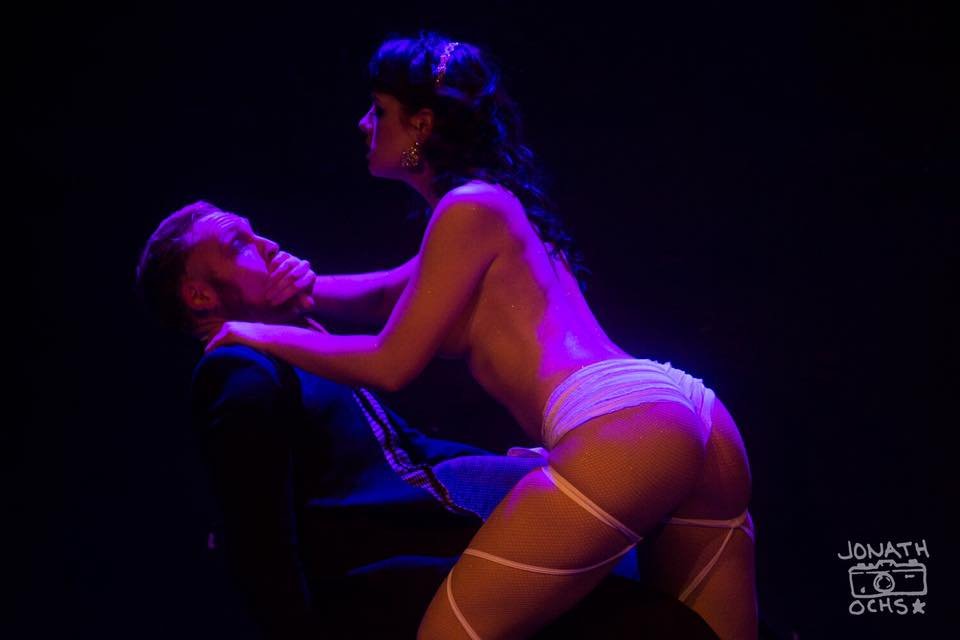
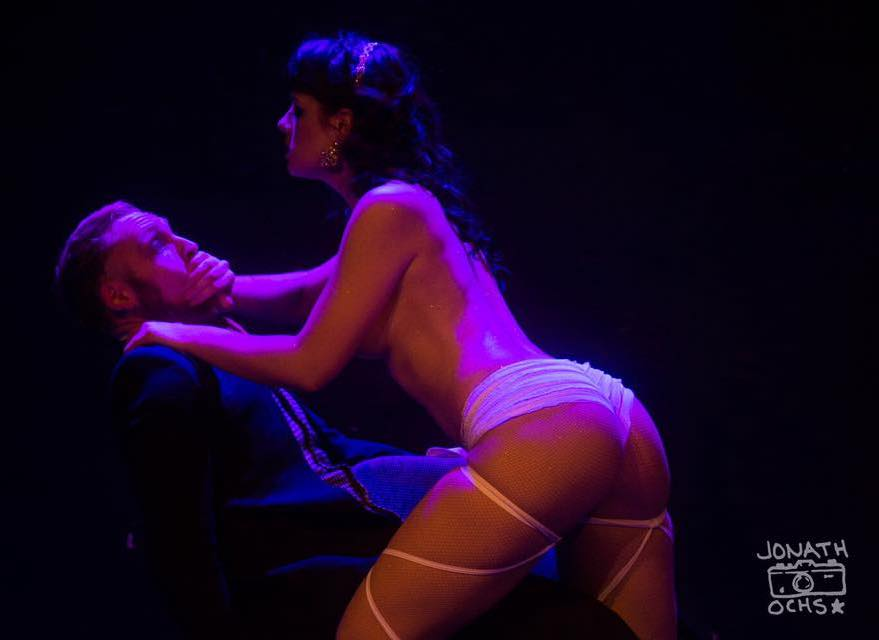
gallery complete, final bugs and styling

Changed region(s): [[0.0614, 0.0312, 0.7986, 1.0], [0.8601, 0.8438, 0.9829, 0.9688], [0.215, 0.8438, 0.2457, 0.875]]

diff --git a/scripts/main.js b/scripts/main.js
@@ -24,13 +24,13 @@ var upcoming = [{
         about: "Now what are the possibilities of warp drive? Cmdr Riker's nervous system has been invaded by an unknown microorganism. The organisms fuse to the nerve, intertwining at the molecular level. That's why the transporter's biofilters couldn't extract it. The vertex waves show a K-complex corresponding to an REM state. The engineering section's critical. Destruction is imminent. Their robes contain ultritium, highly explosive, virtually undetectable by your transporter."
     },
     {
-        img: `<img src="./images/burlesque/The_Devils_Advocates_Burlesque_sq-cropped.jpg" alt="this is picture">`,
+        img: `<img src="./images/burlesque/gallery/da27-cropped.jpg" alt="Flora and Fauna">`,
         title: "Don't miss our upcoming show: Flora and Fauna!",
         subtitle: "April 8, 9, 10",
         about: "Now what are the possibilities of warp drive? Cmdr Riker's nervous system has been invaded by an unknown microorganism. The organisms fuse to the nerve, intertwining at the molecular level. That's why the transporter's biofilters couldn't extract it. The vertex waves show a K-complex corresponding to an REM state. The engineering section's critical. Destruction is imminent. Their robes contain ultritium, highly explosive, virtually undetectable by your transporter."
     },
     {
-        img: `<img src="./images/burlesque/Willy&Effie-cropped.jpg" alt="this is picture">`,
+        img: `<img src="./images/burlesque/The_Devils_Advocates_Burlesque_sq-cropped.jpg" alt="We are Devil's Avocates">`,
         title: "Devil's Advocates are thinking of starting a Cabaret. Wanna get on board?",
         subtitle: "Send us an email today!",
         about: "Now what are the possibilities of warp drive? Cmdr Riker's nervous system has been invaded by an unknown microorganism. The organisms fuse to the nerve, intertwining at the molecular level. That's why the transporter's biofilters couldn't extract it. The vertex waves show a K-complex corresponding to an REM state. The engineering section's critical. Destruction is imminent. Their robes contain ultritium, highly explosive, virtually undetectable by your transporter."

diff --git a/scripts/gallery.js b/scripts/gallery.js
@@ -1,11 +1,15 @@
 $(document).ready(function(){
-      $('.carousel').carousel({fullWidth: true});
+      $('.carousel').carousel({
+
+
+      });
+
    });
 
 
 var gallery = [
   {id: '#one', photo: 'da1.jpg'},
-   {id: '#two', photo: 'da2.jpg'},
+  //  {id: '#two', photo: 'da2.jpg'},
    {id: '#three', photo: 'da3.jpg'},
    {id: '#four', photo: 'da4.jpg'},
    {id: '#five', photo: 'da5.jpg'},
@@ -20,7 +24,10 @@ var gallery = [
   {id: '#fourteen', photo: 'da14.jpg'},
   {id: '#fifteen', photo: 'da15.jpg'},
   {id: '#sixteen', photo: 'da16.jpg'},
-  {id: '#seventeen', photo: 'da17.jpg'} ]
+  {id: '#seventeen', photo: 'da17.jpg'},
+  {id: '#twentyfive', photo: 'da25.jpg'},
+  {id: '#eighteen', photo: 'Behind_the_Scenes_The_Devils_Advocates-13.jpg'}
+ ]
 
 
 //APPEND PHOTOS INTO MAIN BODY

diff --git a/gallery.html b/gallery.html
@@ -38,18 +38,14 @@
   </header>
 
   <div class="container">
-    <main class="performer-main">
+    <main class="gallery-main">
       <h1>The Devil's Advocates</h1>
-      <h2>Check out some photos!</h2>
-
-      <div class="carousel carousel-slider">
-
+      <div class="carousel">
       </div>
-
     </main>
   </div>
 
-  <footer class="page-footer">
+  <footer id="gal-footer" class="page-footer">
     <div class="container">
       <div class="row">
         <div class="col l4 s12">

diff --git a/tickets.html b/tickets.html
@@ -47,9 +47,9 @@
       </div>
 
       <div class="row">
-        <div id="show-pic" class="col l4 s12">
+        <div id="show-pic" class="col l5 s12">
         </div>
-        <div id="show-name"class="col l8 s12">
+        <div id="show-name"class="col l7 s12">
           <h5 id="tix-quantity"></h5>
           <h5 id="price-total"></h5>
 

diff --git a/scripts/shows.js b/scripts/shows.js
@@ -26,7 +26,7 @@ var upcoming = [{
 },
 {
     id: '1',
-    img: "./images/burlesque/The_Devils_Advocates_Burlesque_sq-cropped.jpg",
+    img: "./images/burlesque/gallery/da26-cropped.jpg",
     imgAlt: "Flora and Fauna",
     title: "Flora and Fauna",
     date: ["Fri April 7th 8:00pm", " Sat April 8th 8:00pm", " Sun April 9th 8:00pm"],

diff --git a/styling/main.css b/styling/main.css
@@ -48,6 +48,24 @@ h2, h3 {
   font-size: 3rem;
 }
 
+.carousel{
+  /*height: 900px;*/
+  overflow: visible;
+  /*display: flex;*/
+}
+
+.gallery-main{
+  width: 100%;
+}
+
+#gal-footer {
+  margin-top: 360px;
+}
+
+.carousel .carousel-item {
+  width: 550px;
+}
+
 .receipt p {
   /*text-align: center;*/
   color: #6e0f77;
